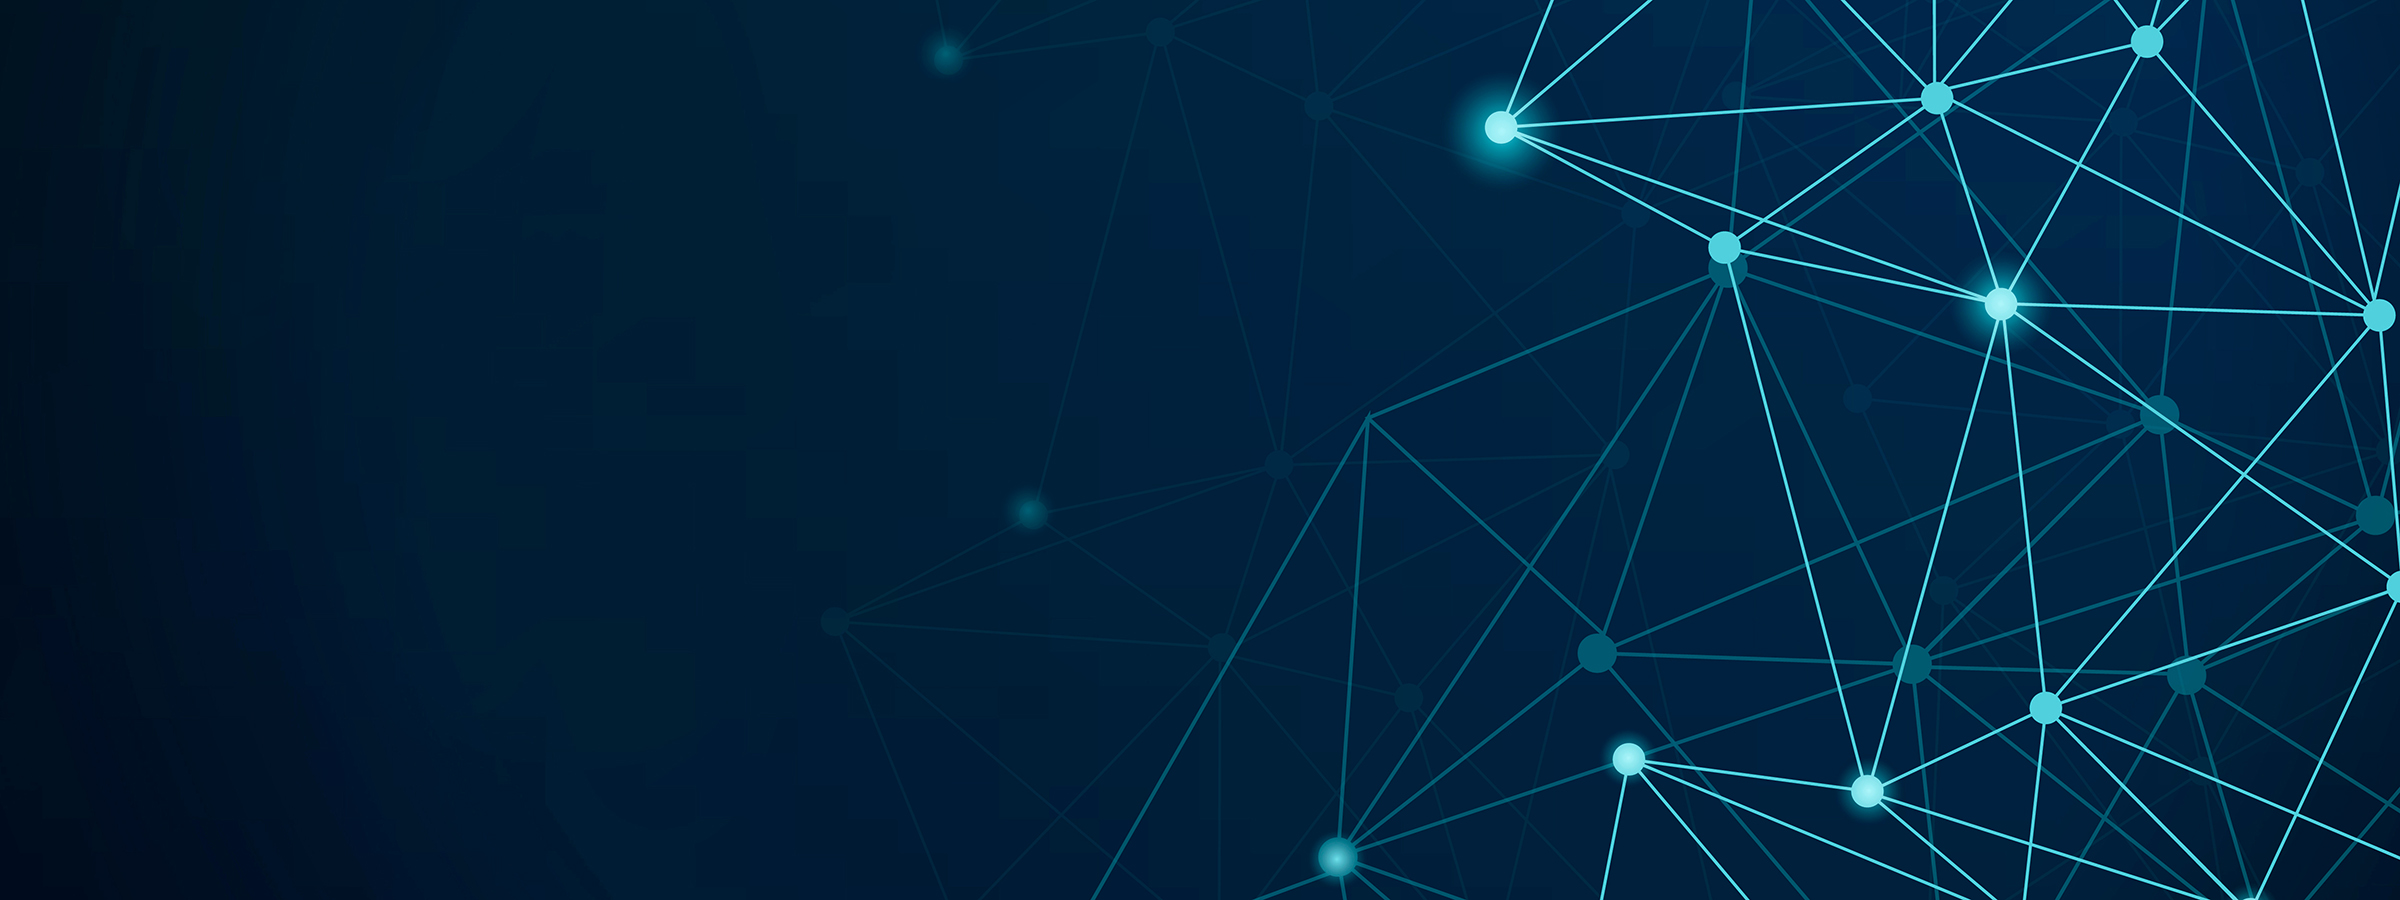
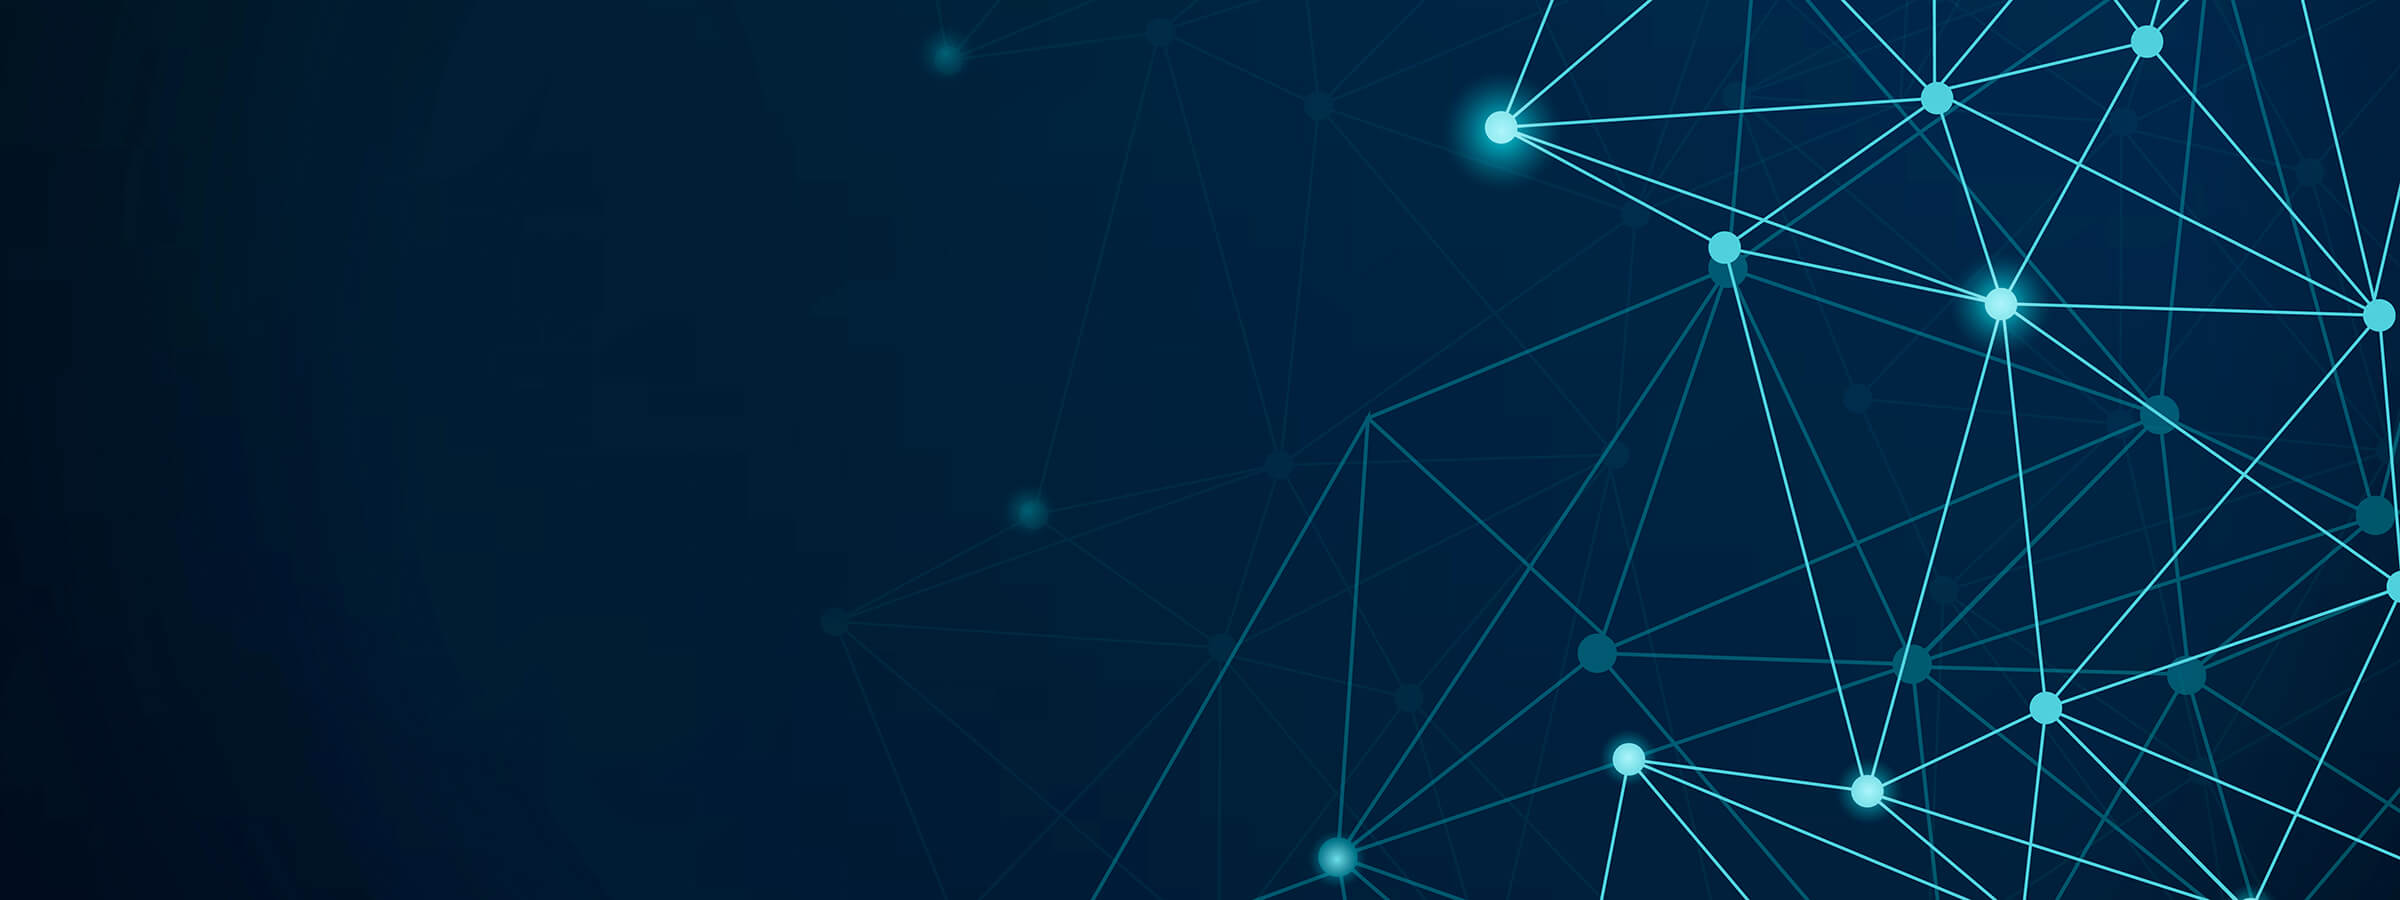
compress image

Changed region(s): [[0.9688, 0.3111, 1.0, 0.3422], [0.8125, 0.9956, 0.8438, 1.0]]

diff --git a/src/components/layout/hero.tsx b/src/components/layout/hero.tsx
@@ -13,6 +13,8 @@ export function Hero() {
           fill
           className='object-cover dark:hidden'
           priority
+          placeholder='blur'
[1 lines of base64/hex data omitted]
         />
         {/* Dark mode banner */}
         <Image
@@ -21,6 +23,8 @@ export function Hero() {
           fill
           className='hidden object-cover dark:block'
           priority
+          placeholder='blur'
[1 lines of base64/hex data omitted]
         />
         {/* Dark overlay with gradient */}
         <div className='absolute inset-0 bg-gradient-to-b from-white/30 via-white/60 to-white dark:from-black/20 dark:via-black/60 dark:to-[#202020]' />

diff --git a/src/components/layout/header.tsx b/src/components/layout/header.tsx
@@ -148,7 +148,10 @@ export function Header() {
                 Reviews
               </Button> */}
             <Link href='/'>
-              <Button variant='ghost' className='font-semibold hover:bg-transparent'>
+              <Button
+                variant='ghost'
+                className='font-semibold hover:bg-transparent hover:opacity-80'
+              >
                 About Me
               </Button>
             </Link>
@@ -162,7 +165,7 @@ export function Header() {
                 variant='ghost'
                 size='icon'
                 onClick={() => dispatch(toggleTheme())}
-                className='ml-2 hover:bg-transparent'
+                className='ml-2 hover:bg-transparent hover:opacity-80'
               >
                 {isDark ? <Sun className='h-5 w-5' /> : <Moon className='h-5 w-5' />}
               </Button>
